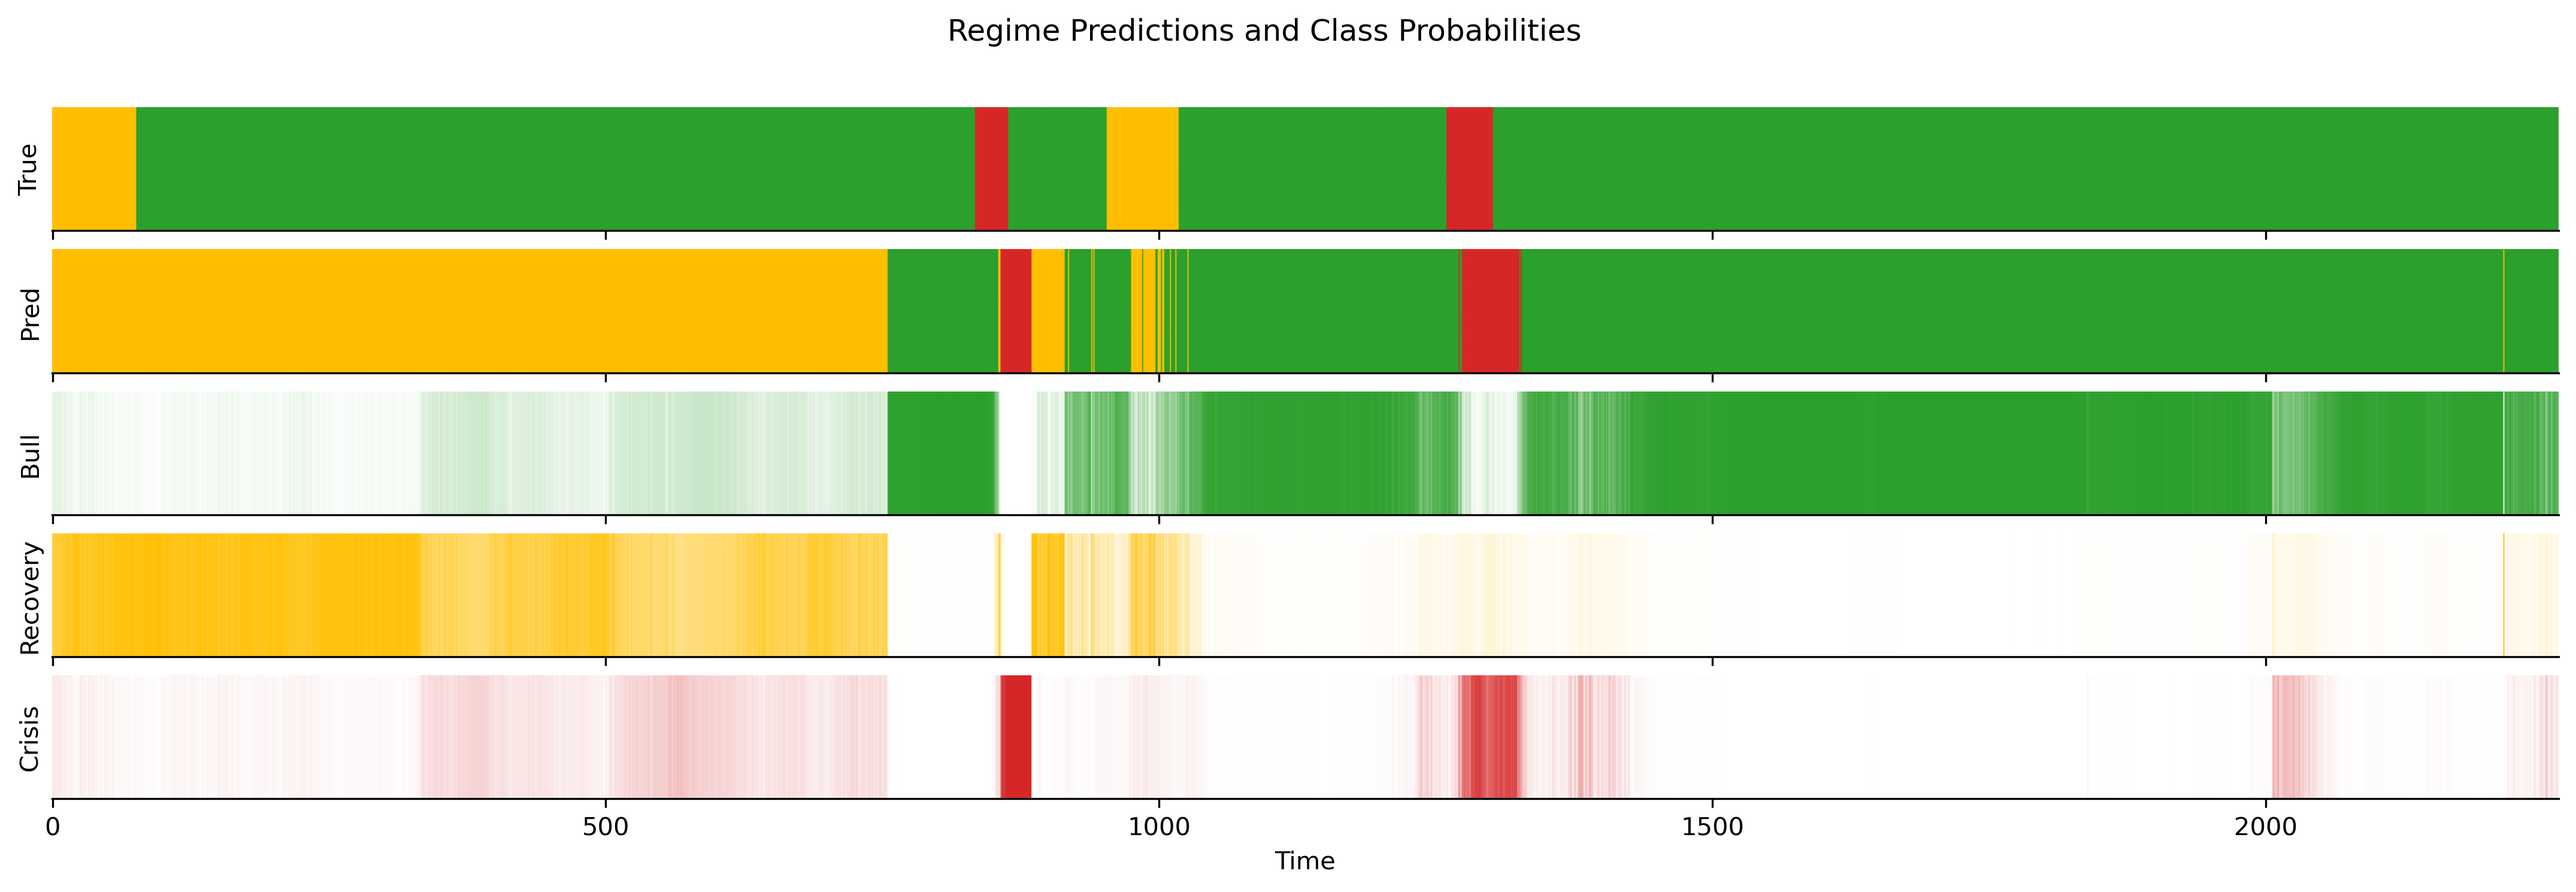
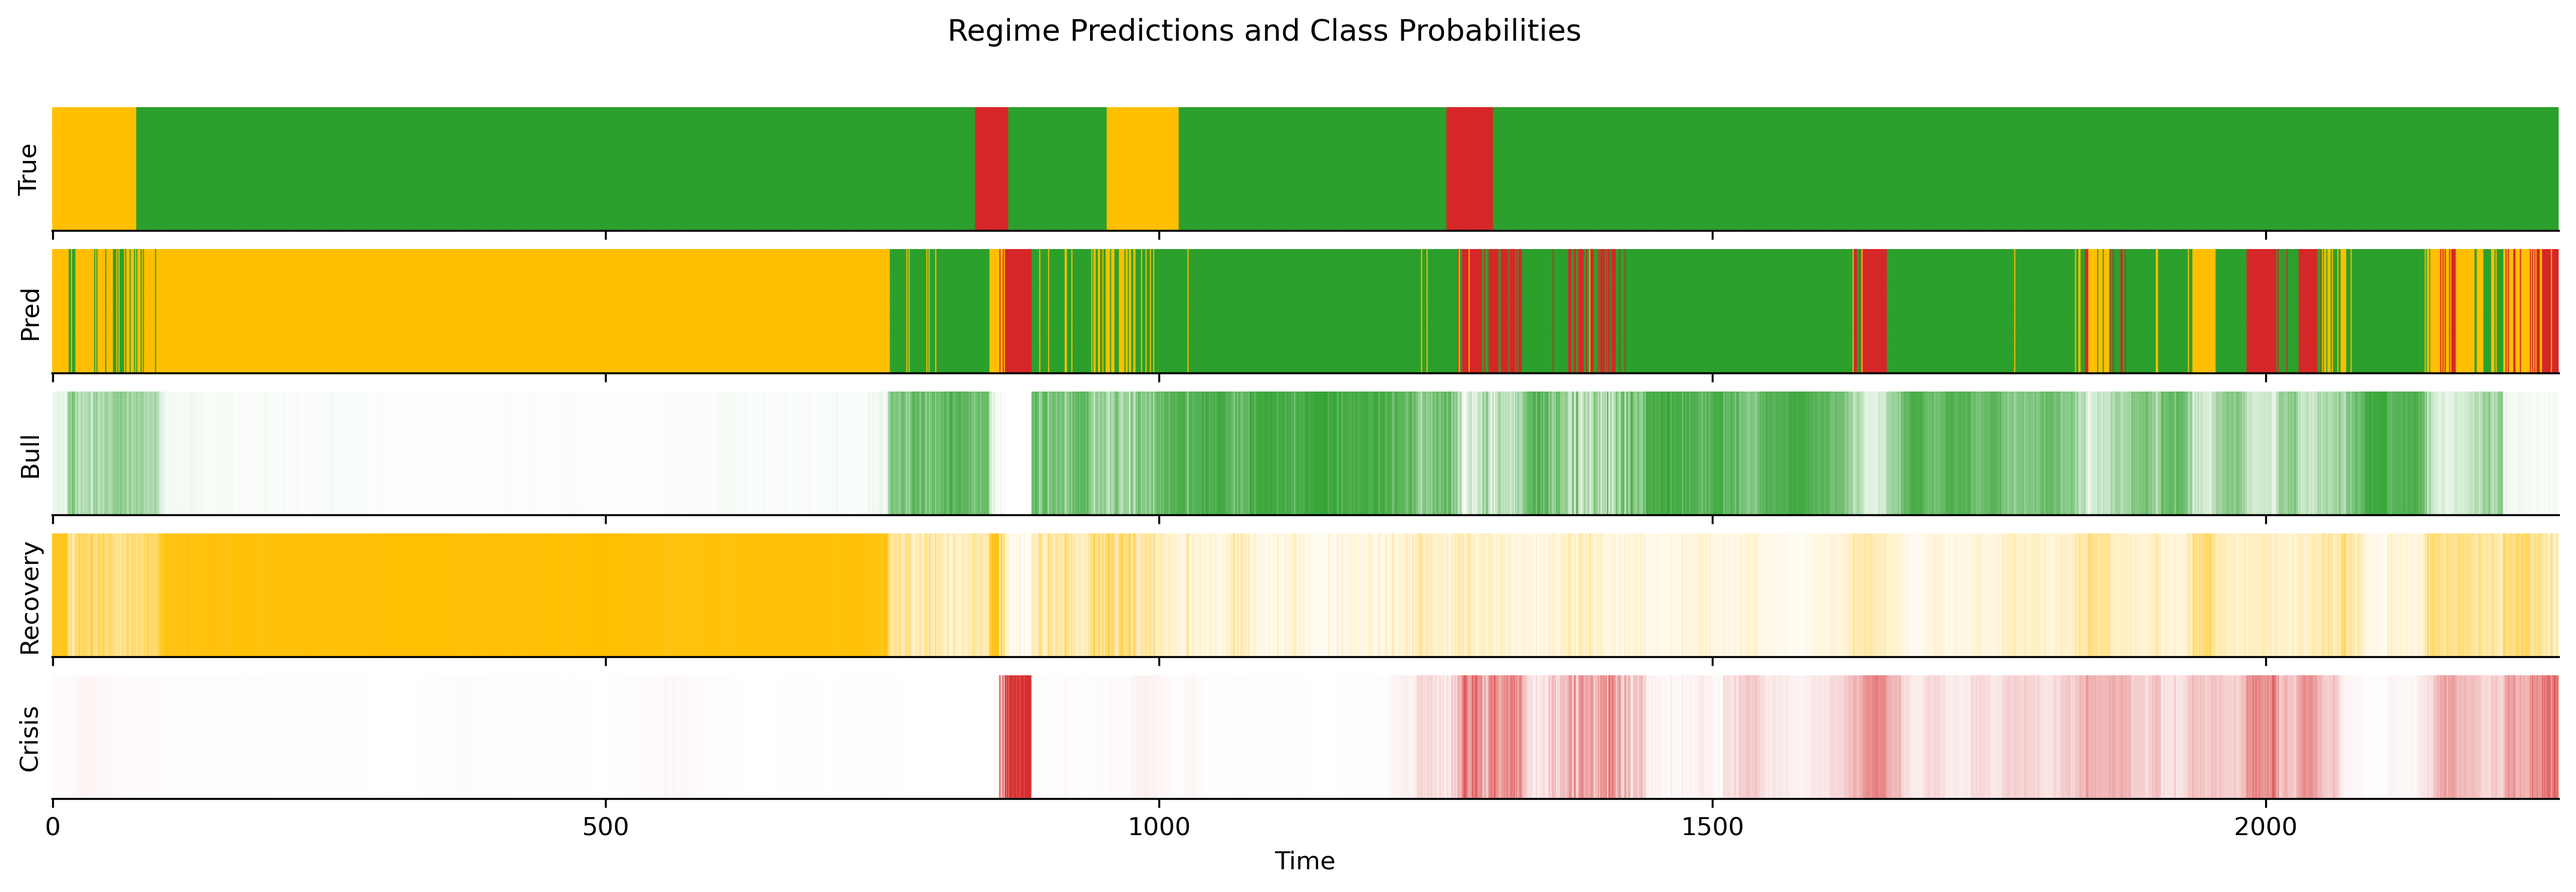
stuff

diff --git a/supervised_learning.py b/supervised_learning.py
@@ -8,6 +8,8 @@ import contextlib
 import io
 from sklearn.metrics import classification_report, confusion_matrix, ConfusionMatrixDisplay
 from data_munging import standardize_data
+from sklearn.model_selection import TimeSeriesSplit
+from collections import defaultdict
 
 from config import DataConfig, SupervisedConfig
 
@@ -230,73 +232,68 @@ def print_results(preds_train, supervised_df, y_train, preds, y_test, cfg_sup):
     })
 
 def CV_for_lambda(current_regime, X, y, model_type):
-    n = len(X)
-    split = n // 2
+    function_split = TimeSeriesSplit(n_splits= cfg_sup.folds)
+    scores = defaultdict(list)
 
-    train_part_X = X.iloc[:split]
-    X_train, scaler = standardize_data(train_part_X)
-    X_train_np = X_train.to_numpy(dtype = np.float64)
-    X_test_np = scaler.transform(X.iloc[split:]).astype(np.float64)
-    current_regime_fold = current_regime.iloc[:split]
-    current_regime_test = current_regime.iloc[split:]
-    y_train = y.iloc[:split]
-    y_test = y.iloc[split:]
+    print(f"\n Tuning lambda | model = {model_type} penalty = {cfg_sup.penalty_type}, using {cfg_sup.folds} folds")
 
-    y_train_np = y_train.to_numpy(dtype = np.int64)
-    y_test_np = y_test.to_numpy(dtype = np.int64)
-    current_regime_test_np = current_regime_test.to_numpy(dtype=np.int64)
-
-    global_best_score = -np.inf
-    print(f"\n Tuning lambda | model = {model_type} penalty = {cfg_sup.penalty_type}")
-
-    lam, m2 = [], []
-
-    for lmd in cfg_sup.lam_values:
-        cfg_sup.lam = lmd
-        if model_type == "softmax":
-            clf = SoftmaxRegression(current_regime=current_regime_fold, max_iter = cfg_sup.max_iter, eps = 1e-6, k = cfg.kmeans_k)
-            clf.fit(X_train_np, y_train_np, learning_rate = cfg_sup.learning_rate, batch_size = cfg_sup.batch_size)
-        elif model_type == "gda":
-            clf = GDA_SGD(k = cfg.kmeans_k)
-            clf.fit(X_train_np, y_train_np)
-        elif model_type == "neuralnet":
-            x_shape = X_train_np.shape[1]
-            clf = Neural_Networks(torch.as_tensor(current_regime_fold.to_numpy().copy()), x_shape, cfg.kmeans_k, cfg_sup)
-            clf.setup_nn()
-            clf.fit(X_train_np, y_train_np)        
-
-        predicted_values = clf.predict(X_test_np)
-        m1_indicator = y_test_np[1:] != y_test_np[:-1]
-        total_m1 = m1_indicator.sum()
-
-        if total_m1 != 0:
-            summed = (predicted_values[1:][m1_indicator] == y_test_np[1:][m1_indicator]).sum()
-            m1_score = summed / total_m1
-        else:
-            m1_score = 0.0
-
-        m2_indicator = current_regime_test_np != y_test_np
-        total_m2 = m2_indicator.sum()
-        if total_m2 > 0:
-            summed_2 = (predicted_values[m2_indicator] == y_test_np[m2_indicator]).sum()
-            m2_score = summed_2 / total_m2
-        else:
-            m2_score = 0.0
-
+    
+    for fold, (taidx, teidx) in enumerate(function_split.split(X)):
+        X_data_cur, scaler = standardize_data(X.iloc[taidx])
+        X_train_np = X_data_cur.to_numpy(dtype = np.float64)
+        X_test = scaler.transform(X.iloc[teidx])
+        X_test_np = X_test.astype(dtype = np.float64)
         
-        print(f"M1 value for lambda {lmd} = {m1_score:.4f}")
-        print(f"M2 value for lambda {lmd} = {m2_score:.4f}")
+        current_regime_fold = current_regime.iloc[taidx]
+        current_regime_test = current_regime.iloc[teidx]
+        current_regime_test_np = current_regime_test.to_numpy(dtype = np.int64)
 
-        m2.append(m2_score)
-        lam.append(lmd)
+        y_train = y.iloc[taidx]
+        y_test = y.iloc[teidx]
+        y_train_np = y_train.to_numpy(dtype = np.int64)
+        y_test_np = y_test.to_numpy(dtype = np.int64)
 
-        if m2_score > global_best_score:
-            global_best_score = m2_score
-            best_lam = lmd
-        
-    print(f"Best Lambda for M2 is {best_lam} with score {global_best_score:.4f}")
+        for lmd in cfg_sup.lam_values:
+            cfg_sup.lam = lmd
+            if model_type == "softmax":
+                clf = SoftmaxRegression(current_regime=current_regime_fold, max_iter = cfg_sup.max_iter, eps = 1e-6, k = cfg.kmeans_k)
+                clf.fit(X_train_np, y_train_np, learning_rate = cfg_sup.learning_rate, batch_size = cfg_sup.batch_size)
+            elif model_type == "gda":
+                clf = GDA_SGD(k = cfg.kmeans_k)
+                clf.fit(X_train_np, y_train_np)
+            elif model_type == "neuralnet":
+                x_shape = X_train_np.shape[1]
+                clf = Neural_Networks(torch.as_tensor(current_regime_fold.to_numpy().copy()), x_shape, cfg.kmeans_k, cfg_sup)
+                clf.setup_nn()
+                clf.fit(X_train_np, y_train_np)        
+
+            predicted_values = clf.predict(X_test_np)
+
+            m2_indicator = current_regime_test_np != y_test_np
+            total_m2 = m2_indicator.sum()
+            if total_m2 > 0:
+                summed_2 = (predicted_values[m2_indicator] == y_test_np[m2_indicator]).sum()
+                m2_score = summed_2 / total_m2
+            else:
+                m2_score = 0.0
+            
+
+            scores[lmd].append(m2_score)
+    
+
+    avg_scores = {}
+    for lmd, s in scores.items():
+        avg_scores[lmd] = np.mean(s)
+    
+    best_lam = max(avg_scores, key = avg_scores.get)
+
+    print(f"M2 best lambda is {best_lam} with score of {avg_scores[best_lam]:.4f}")
+    
+    keys = list(avg_scores.keys())
+    y_list = list(avg_scores.values())
+
     plt.figure()
-    plt.plot(lam, m2, marker = 'o', label = "M2 (true transition accuracy)")
+    plt.plot(keys, y_list, marker = 'o', label = "M2 (true transition accuracy)")
     plt.axvline(best_lam, color = "red", linestyle = '--', label = f"best lambda {best_lam}")
     plt.xlabel("Lambda")
     plt.ylabel("M2 Score")

diff --git a/config.py b/config.py
@@ -46,7 +46,7 @@ class DataConfig:
 @dataclass
 class SupervisedConfig:
     #Data parameters
-    penalty_type : str = "distance" #Type of penalty we will be appending. Leave empty if we dont want to apply penalty
+    penalty_type : str = "ce_standard" #Type of penalty we will be appending. Leave empty if we dont want to apply penalty
     evaluation_metric : int = 2 #1 or 2 for m1 or m2
     horizon : int = 21
 
